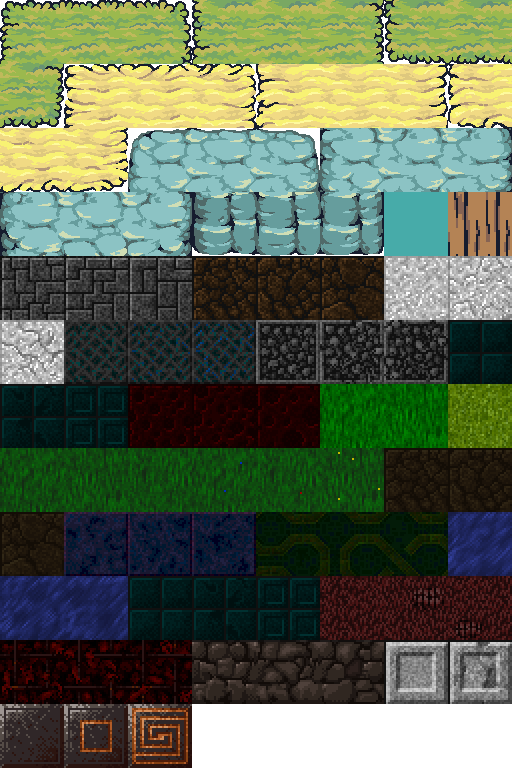
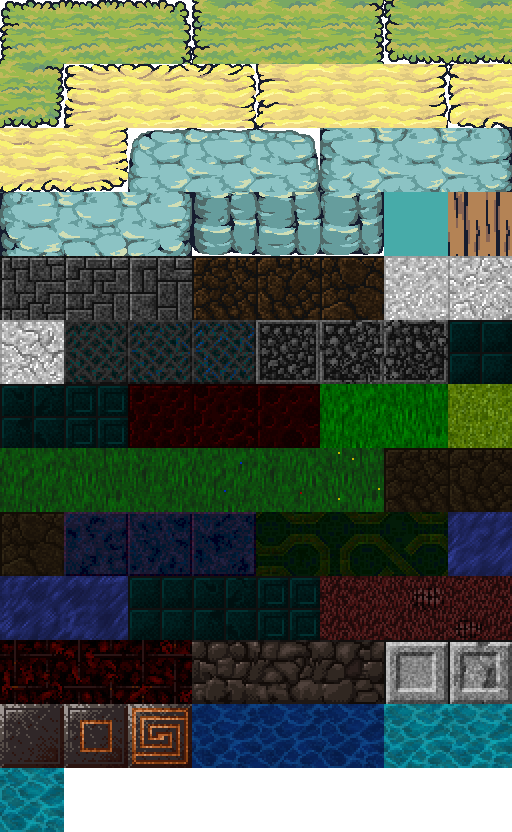
Detail coastal water and Reverse Cyber rail routes

diff --git a/src/game/fx/ChapterTerrain.ts b/src/game/fx/ChapterTerrain.ts
@@ -48,6 +48,8 @@ export function chapterTerrainData(lay: RoomLayout, place: Place, framedRoom = f
   const road = new Set<number>();
   // Six fine tiles (about 192–240px) leave room for several character bodies.
   // Clip against the shared walkable mask so wider bends never paint over walls.
+  const railRoute: { x: number; y: number }[] = [];
+  const railPoint = (cell: number) => ({ x: (cell % lay.cols + .5) * lay.cellW, y: (Math.floor(cell / lay.cols) + .5) * lay.cellH });
   const paint = (x: number, y: number) => {
     for (let dx = -3; dx < 3; dx++) for (let dy = -3; dy < 3; dy++) {
       if (open(x + dx, y + dy)) road.add((y + dy) * cols + x + dx);
@@ -56,11 +58,13 @@ export function chapterTerrainData(lay: RoomLayout, place: Place, framedRoom = f
   let cur = lay.entry;
   for (let count = 0; count < lay.open.length && cur !== lay.exit; count++) {
     const next = nextStepToward(lay, cur, lay.exit); if (next === null) break;
+    if (place.role === "rail") railRoute.push(railPoint(cur));
     const x0 = cur % lay.cols * detail + 2, y0 = Math.floor(cur / lay.cols) * detail + 2;
     const x1 = next % lay.cols * detail + 2, y1 = Math.floor(next / lay.cols) * detail + 2;
     for (let i = 0; i <= detail; i++) paint(x0 + Math.sign(x1 - x0) * i, y0 + Math.sign(y1 - y0) * i);
     cur = next;
   }
+  if (railRoute.length) railRoute.push(railPoint(cur));
   const accents = new Map<number, Detail>();
   const isScarlet = lay.authored?.stageKey?.startsWith("lilacworld11") || place.boss === "scarlet_blood";
   const accent = place.floor === "snow" ? "ice" : isScarlet ? "redStone" : INLAYS[place.role];
@@ -97,6 +101,10 @@ export function chapterTerrainData(lay: RoomLayout, place: Place, framedRoom = f
       g.push(-1);
       const edge = open(c, r - 1) || open(c, r + 1) || open(c - 1, r) || open(c + 1, r);
       if (framedRoom && !edge) b.push(-1);
+      else if (place.border === "water") {
+        const shallows = place.role !== "deck" && [1, 2].some(n => open(c, r - n) || open(c, r + n) || open(c - n, r) || open(c + n, r));
+        b.push(variation(shallows ? details.shoal : details.deepWater, c, r));
+      }
       else if (boundary) b.push(variation(details[boundary], c, r));
       else if (place.border !== "rock") b.push(variation(materials[place.border].tiles, c, r));
       else if (open(c, r - 1)) b.push(materials.rock.tiles[9 + c % 3]);
@@ -104,7 +112,7 @@ export function chapterTerrainData(lay: RoomLayout, place: Place, framedRoom = f
     }
     ground.push(g); border.push(b);
   }
-  return { ground, border, tileW: lay.cellW / detail, tileH: lay.cellH / detail, detail };
+  return { ground, border, tileW: lay.cellW / detail, tileH: lay.cellH / detail, detail, railRoute };
 }
 
 /** Rendering only; existing WorldScene route bodies remain the sole source of collision. */
@@ -123,6 +131,7 @@ export function renderChapterTerrain(scene: Phaser.Scene, lay: RoomLayout, onDec
     layer.setScale(data.tileW / 64, data.tileH / 64).setDepth(depth).setName(`chapter-terrain:${name}:${place.role}`);
     maps.push(map); layers.push(layer);
   }
+  const track = data.railRoute.length > 1 ? renderRailTrack(scene, data.railRoute, Math.min(data.tileW, data.tileH)) : undefined;
   const props: Partial<Record<Place["role"], string[]>> = {
     cliff: ["obj_forest_rock__1", "obj_forest_tree_orange"], road: ["obj_forest_tree_orange", "obj_forest_rock__1"],
     garden: ["obj_forest_tree_pink", "obj_dungeon_table__1"], sanctuary: ["obj_forest_tree_pink", "obj_dungeon_jar__1"],
@@ -136,13 +145,14 @@ export function renderChapterTerrain(scene: Phaser.Scene, lay: RoomLayout, onDec
     rift: ["obj_forest_rock_monument"], domain: ["obj_dungeon_candle", "obj_forest_rock_monument"],
   };
   const pool = props[place.role] ?? [];
-  const closedEdges: number[] = [];
+  const waterside = place.border === "water" && ["shore", "deck", "harbor"].includes(place.role);
+  const propEdges: number[] = [];
   for (let r = 1; r < lay.rows - 1; r++) for (let c = 1; c < lay.cols - 1; c++) {
     const cell = r * lay.cols + c;
-    if (lay.open[cell]) continue;
-    if (![cell - 1, cell + 1, cell - lay.cols, cell + lay.cols].some((n) => lay.open[n])) continue;
+    if (lay.open[cell] !== waterside) continue;
+    if (![cell - 1, cell + 1, cell - lay.cols, cell + lay.cols].some(n => lay.open[n] !== waterside)) continue;
     if ([lay.entry, lay.exit].some((n) => Math.abs(c - n % lay.cols) + Math.abs(r - Math.floor(n / lay.cols)) <= 2)) continue;
-    closedEdges.push(cell);
+    propEdges.push(cell);
   }
   const addProp = (key: string, cell: number, scale = 1) => {
     if (!scene.textures.exists(key)) return;
@@ -155,17 +165,50 @@ export function renderChapterTerrain(scene: Phaser.Scene, lay: RoomLayout, onDec
   let roseCell: number | undefined;
   if (site?.chapter === "dlcstargate" && [3, 4, 9].includes(site.sub) && focus !== undefined) {
     const distance = (cell: number) => Math.abs(cell % lay.cols - focus % lay.cols) + Math.abs(Math.floor(cell / lay.cols) - Math.floor(focus / lay.cols));
-    roseCell = closedEdges.reduce<number | undefined>((best, cell) => best === undefined || distance(cell) < distance(best) ? cell : best, undefined);
+    roseCell = propEdges.reduce<number | undefined>((best, cell) => best === undefined || distance(cell) < distance(best) ? cell : best, undefined);
     if (roseCell !== undefined) addProp(ROSE_KEY, roseCell, 1.35);
   }
   // Sample across the entire field so decor does not collect only along the first wall.
   if (pool.length) {
-    const count = Math.min(place.boss ? 6 : 10, closedEdges.length);
+    const count = Math.min(place.boss ? 6 : 10, propEdges.length);
     for (let i = 0; i < count; i++) {
-      const cell = closedEdges[Math.floor((i + .5) * closedEdges.length / count)];
+      const cell = propEdges[Math.floor((i + .5) * propEdges.length / count)];
       if (cell !== roseCell) addProp(pool[i % pool.length], cell);
     }
   }
-  scene.events.once("shutdown", () => { for (const map of maps) map.destroy(); for (const img of images) img.destroy(); });
+  scene.events.once("shutdown", () => { track?.destroy(); for (const map of maps) map.destroy(); for (const img of images) img.destroy(); });
   return { maps, layers, images };
+}
+
+function renderRailTrack(scene: Phaser.Scene, route: { x: number; y: number }[], tileSize: number) {
+  const track = scene.add.graphics().setDepth(2).setName("chapter-rail-track");
+  const gauge = tileSize * .44;
+  const normals = route.slice(1).map((point, i) => ({ x: Math.sign(route[i].y - point.y), y: Math.sign(point.x - route[i].x) }));
+  const stroke = (points: typeof route) => {
+    track.beginPath().moveTo(points[0].x, points[0].y);
+    for (const point of points.slice(1)) track.lineTo(point.x, point.y);
+    track.strokePath();
+  };
+  track.lineStyle(gauge * 3.8, 0x232e35, .8);
+  stroke(route);
+  track.lineStyle(5, 0x806750, .9);
+  for (let i = 0; i < normals.length; i++) {
+    const a = route[i], b = route[i + 1];
+    const dx = normals[i].x * gauge * 1.55, dy = normals[i].y * gauge * 1.55;
+    const count = Math.ceil(Math.hypot(b.x - a.x, b.y - a.y) / (tileSize * .88));
+    for (let j = 0; j < count; j++) {
+      const t = (j + .5) / count, x = a.x + (b.x - a.x) * t, y = a.y + (b.y - a.y) * t;
+      track.lineBetween(x - dx, y - dy, x + dx, y + dy);
+    }
+  }
+  track.lineStyle(3, 0x9db5b8, .92);
+  for (const side of [-gauge, gauge]) {
+    stroke(route.map(({ x, y }, i) => {
+      const before = normals[i - 1] ?? normals[0], after = normals[i] ?? before;
+      // Offset both rails through a right-angle bend without breaking either line.
+      const offset = before.x === after.x && before.y === after.y ? side / 2 : side;
+      return { x: x + offset * (before.x + after.x), y: y + offset * (before.y + after.y) };
+    }));
+  }
+  return track;
 }

diff --git a/scripts/prepare-story-terrain.py b/scripts/prepare-story-terrain.py
@@ -28,6 +28,8 @@ GROUPS = {
     "brick": [WALL + f"brick_dark_{i}.png" for i in range(3)],
     "masonry": [WALL + f"stone_2_gray_{i}.png" for i in range(2)],
     "metal": [WALL + f"lab-metal_{i}.png" for i in range(3)],
+    "deepWater": ["dungeon/water/shoals_deep_water_" + i + ".png" for i in ("0", "1_new", "2_new")],
+    "shoal": ["dungeon/water/shoals_shallow_water_" + i + ".png" for i in ("0", "1_new", "2_new")],
 }
 
 

diff --git a/worklog.md b/worklog.md
@@ -6283,3 +6283,5 @@ Work Log:
 - 스토리와 연결되는 171개 제작 필드의 바닥, 외벽, 통로와 랜드마크를 정리했다. 라일락 월드의 천문대·항구·함선, 리버스 철도와 스노리카 설원을 각 장소의 구조로 구별했다. 도착 위치와 스토리 NPC·수집 목표가 걸을 수 있는 타일에 놓이도록 조정했다.
 - DCSS CC0 타일을 출처와 함께 추가했다. 승인받은 Pixel Engine 6크레딧으로 생성한 장미 동력핵을 스타게이트 3·4·9구역에 배치했다.
 - 지형 자동 검사로 171개 필드의 연결성, 충돌과 보스 주변의 여유 공간을 검증했다. 개발 브라우저 1280×800 가로 화면에서 튜토리얼을 완주하고 대표 6개 필드의 실제 렌더링·이동 가능 지점·스타게이트 장미를 확인했다.
+
+- 가로 렌더링을 확인한 뒤 항만에 깊은 바다와 얕은 물결 타일을 추가하고, 항만과 갑판의 소품을 물 위에서 육지 가장자리로 옮겼다. 리버스 철도는 입구와 출구를 연결하는 실제 이동 경로에 레일과 침목을 그린다.
